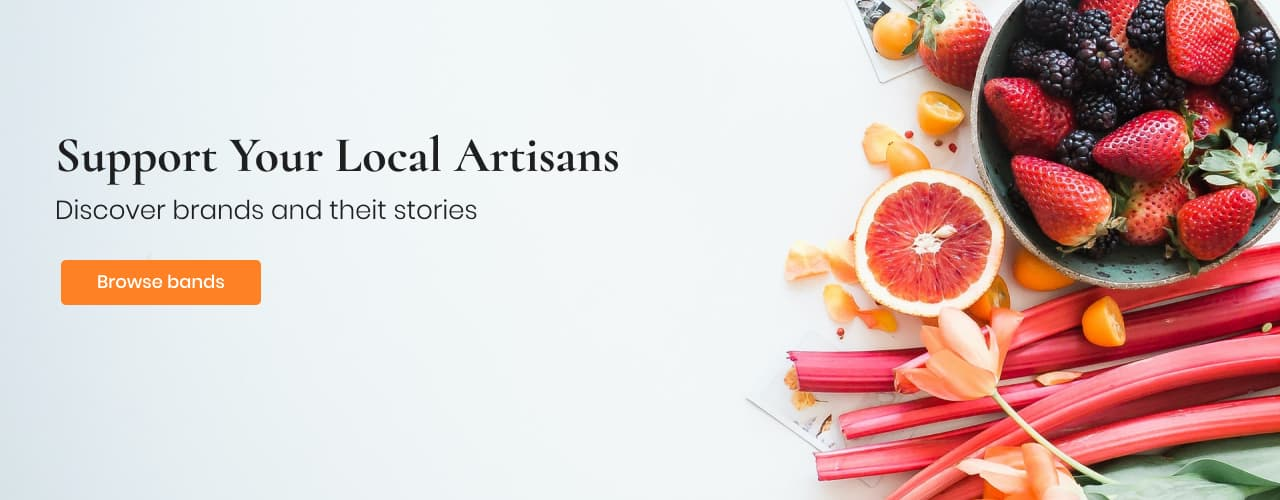
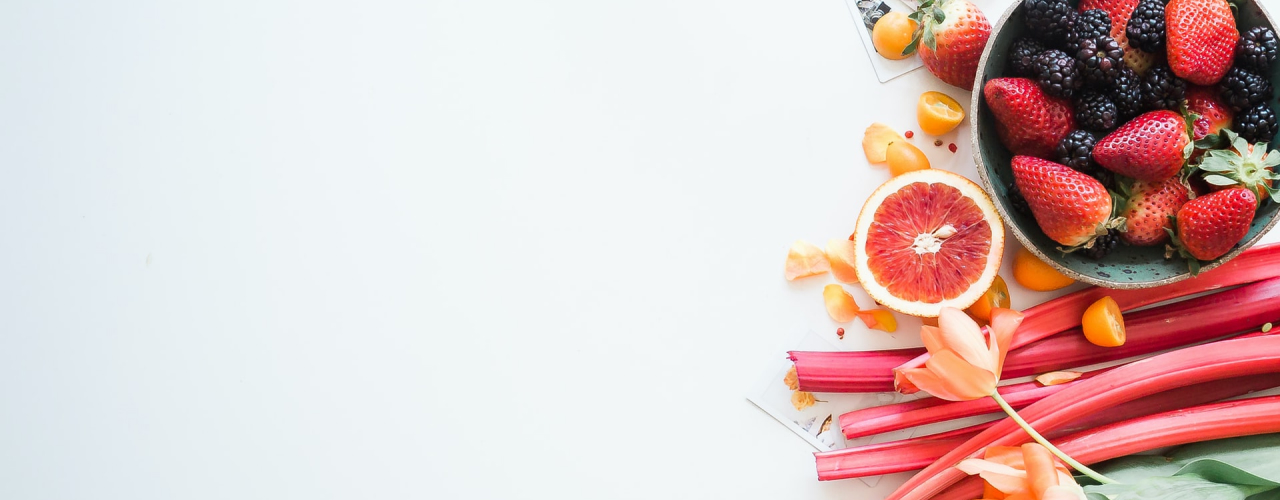
add hero section

diff --git a/css/styles.css b/css/styles.css
@@ -1,0 +1,249 @@
+:root {
+  --black: #1f1f1f;
+  --white: #ffffff;
+  --accent: #ff8126;
+
+  /*--Texts--*/
+  --text-color-primary: #1f1f1f;
+  --text-color-secondary: #656565;
+
+  /*--Backgrounds--*/
+  --bg-color-primary: #ffffff;
+  --bg-color-secondary: #f7f5f0;
+
+  /*--Fonts--*/
+  --text-family: 'Poppins', sans-serif;
+  --title-family: 'Cormorant', sans-serif;
+}
+
+body {
+  color: var(--text-color-primary);
+  font-family: var(--text-family);
+  font-weight: 400;
+  font-size: 16px;
+  line-height: 1.5;
+}
+
+p,
+h1,
+h2,
+h3,
+h4,
+h5,
+h6 {
+  margin-top: 0;
+}
+
+h2 {
+  font-family: var(--title-family);
+  font-weight: 500;
+}
+.section {
+  margin-bottom: 80px;
+}
+
+.list {
+  display: flex;
+  list-style-type: none;
+  margin: 0;
+  padding: 0;
+}
+
+.container {
+  width: 100%;
+  margin: 0 auto;
+  padding-left: 55px;
+  padding-right: 55px;
+}
+@media screen and (min-width: 428px) {
+  .container {
+    max-width: 428px;
+  }
+}
+@media screen and (min-width: 768px) {
+  .container {
+    max-width: 768px;
+  }
+}
+@media screen and (min-width: 1280px) {
+  .container {
+    max-width: 1280px;
+    padding-left: 55px;
+    padding-right: 55px;
+  }
+}
+
+/*--Header--*/
+
+.header {
+  display: flex;
+  justify-content: space-between;
+  align-items: center;
+  padding: 20px 0;
+  background-color: var(--bg-color-primary);
+}
+
+/*--Desktop-menu--*/
+
+.menu-desktop {
+  display: flex;
+  align-items: center;
+  justify-content: start;
+  gap: 60px;
+  width: 100%;
+}
+
+.logo {
+  width: 110px;
+  height: 95px;
+}
+.logo img {
+  width: 100%;
+  height: 100%;
+}
+
+.nav-desktop {
+  width: 100%;
+  display: flex;
+  align-items: center;
+  justify-content: space-between;
+}
+
+.site-nav {
+  gap: 40px;
+  list-style-type: none;
+}
+
+.nav-desktop li {
+  position: relative;
+}
+
+.nav-desktop a {
+  text-decoration: none;
+  color: var(--text-color-primary);
+  font-weight: 500;
+  font-size: 15px;
+  padding: 10px;
+}
+
+.nav-desktop li .dropdown-content {
+  display: none;
+  position: absolute;
+  background-color: var(--bg-color-primary);
+  box-shadow: 0 4px 8px rgba(0, 0, 0, 0.1);
+  list-style-type: none;
+  padding: 10px;
+  margin: 0;
+}
+
+.nav-desktop li .dropdown-content li {
+  padding: 5px 0;
+}
+
+.nav-desktop li .dropdown-content li a {
+  color: #333;
+  font-weight: normal;
+}
+
+.nav-desktop li .dropdown-content li a svg {
+  width: 24px;
+  height: 24px;
+  fill: var(--black);
+  display: block;
+}
+
+.dropdown-toggle {
+  cursor: pointer;
+  width: 20px;
+  height: 20px;
+  fill: #333;
+  margin-left: 5px;
+}
+
+.nav-desktop li:hover .dropdown-content {
+  display: block;
+}
+
+.icons {
+  display: flex;
+  gap: 10px;
+}
+
+.user-btn {
+  width: 60px;
+  height: 60px;
+  background-color: var(--bg-color-primary);
+  border: 1px solid #bfbfbf;
+  border-radius: 50%;
+}
+.icon-users {
+  width: 30px;
+  height: 30px;
+}
+
+/*--HERO--*/
+.hero {
+  max-width: 1280px;
+  height: 500px;
+  margin-left: auto;
+  margin-right: auto;
+  padding-top: 125px;
+  padding-left: 55px;
+  text-align: start;
+  background-image: url(../images/Banner.jpg);
+  background-size: cover;
+  background-position: center;
+}
+
+.hero h2 {
+  font-weight: 700;
+  font-size: 40px;
+  margin-bottom: 0;
+}
+
+.hero p {
+  font-weight: 300;
+  font-size: 26px;
+  margin-bottom: 40px;
+}
+.hero a {
+  text-decoration: none;
+}
+
+.btn {
+  color: var(--white);
+  font-weight: 500;
+  background-color: var(--accent);
+  border: none;
+  border-radius: 5px;
+  padding: 10px 30px;
+}
+.btn:hover,
+.btn:focus {
+  cursor: pointer;
+}
+
+/*--Offers--*/
+.offers h2 {
+  font-weight: 700;
+  font-size: 40px;
+  text-align: center;
+}
+
+.offers span {
+  color: var(--accent);
+}
+
+.offer-list {
+  display: flex;
+  gap: 30px;
+}
+
+.offer-card {
+  height: 332px;
+  background-color: var(--bg-color-secondary);
+  border-radius: 20px;
+}
+.tumb {
+  padding: 20px;
+}

diff --git a/our-brands.html b/our-brands.html
@@ -3,7 +3,7 @@
   <head>
     <meta charset="UTF-8" />
     <meta name="viewport" content="width=device-width, initial-scale=1.0" />
-    <title>Premium Quality Bakery</title>
+    <title>Premium Quality Bakery brands</title>
     <link
       rel="icon"
       type="image/png"
@@ -102,103 +102,8 @@
         </nav>
       </div>
     </header>
+    <main>Brands cards</main>
 
-    <main>
-      <section class="hero section">
-        <div class="container">
-          <h2>Support Your Local Artisans</h2>
-          <p>Discover brands and their stories</p>
-          <a class="btn" href="./our-brands.html">Browse brands</a>
-        </div>
-      </section>
-
-      <section class="offers section">
-        <div class="container">
-          <h2>Latest <span>Offers</span></h2>
-          <ul class="offer-list list">
-            <li class="offer-card">
-              <img src="" alt="" />
-              <div class="tumb">
-                <p class="offer-name"></p>
-                <div class="offer-price">
-                  <p class="new-price"></p>
-                  <p class="old-price"></p>
-                  <button class="btn">Quick Shop</button>
-                </div>
-              </div>
-            </li>
-            <li class="offer-card">
-              <img src="" alt="" />
-              <div class="tumb">
-                <p class="offer-name"></p>
-                <div class="offer-price">
-                  <p class="new-price"></p>
-                  <p class="old-price"></p>
-                  <button class="btn">Quick Shop</button>
-                </div>
-              </div>
-            </li>
-            <li class="offer-card">
-              <img src="" alt="" />
-              <div class="tumb">
-                <p class="offer-name"></p>
-                <div class="offer-price">
-                  <p class="new-price"></p>
-                  <p class="old-price"></p>
-                  <button class="btn">Quick Shop</button>
-                </div>
-              </div>
-            </li>
-            <li class="offer-card">
-              <img src="" alt="" />
-              <div class="tumb">
-                <p class="offer-name"></p>
-                <div class="offer-price">
-                  <p class="new-price"></p>
-                  <p class="old-price"></p>
-                  <button class="btn">Quick Shop</button>
-                </div>
-              </div>
-            </li>
-          </ul>
-        </div>
-      </section>
-      <section class="advantages">
-        <div class="container"></div>
-        <h2>Why Choose the Premium Bakery Quality</h2>
-      </section>
-
-      <section id="about-us">
-        <div class="container"></div>
-        <h2>Who Makes Your Food?</h2>
-      </section>
-
-      <section id="our-brands">
-        <div class="container"></div>
-        <h2>Our Charity Partner, City Bakery</h2>
-      </section>
-
-      <section class="surprise">
-        <div class="container"></div>
-        <h2>Surprise Someone /br Working from Home</h2>
-      </section>
-
-      <section class="instagram">
-        <div class="container"></div>
-        <h2>@PremiumBakeryQuality on Instagram</h2>
-      </section>
-
-      <section class="tell-friend">
-        <div class="container"></div>
-        <h2>Tell a Friend</h2>
-      </section>
-    </main>
-
-    <footer>Footer</footer>
-
-    <!--Modal-->
-    <!--Scripts-->
-    <script src="./js/dropdown.js"></script>
-    <script src="./js/scroll.js"></script>
+    <footer></footer>
   </body>
 </html>
